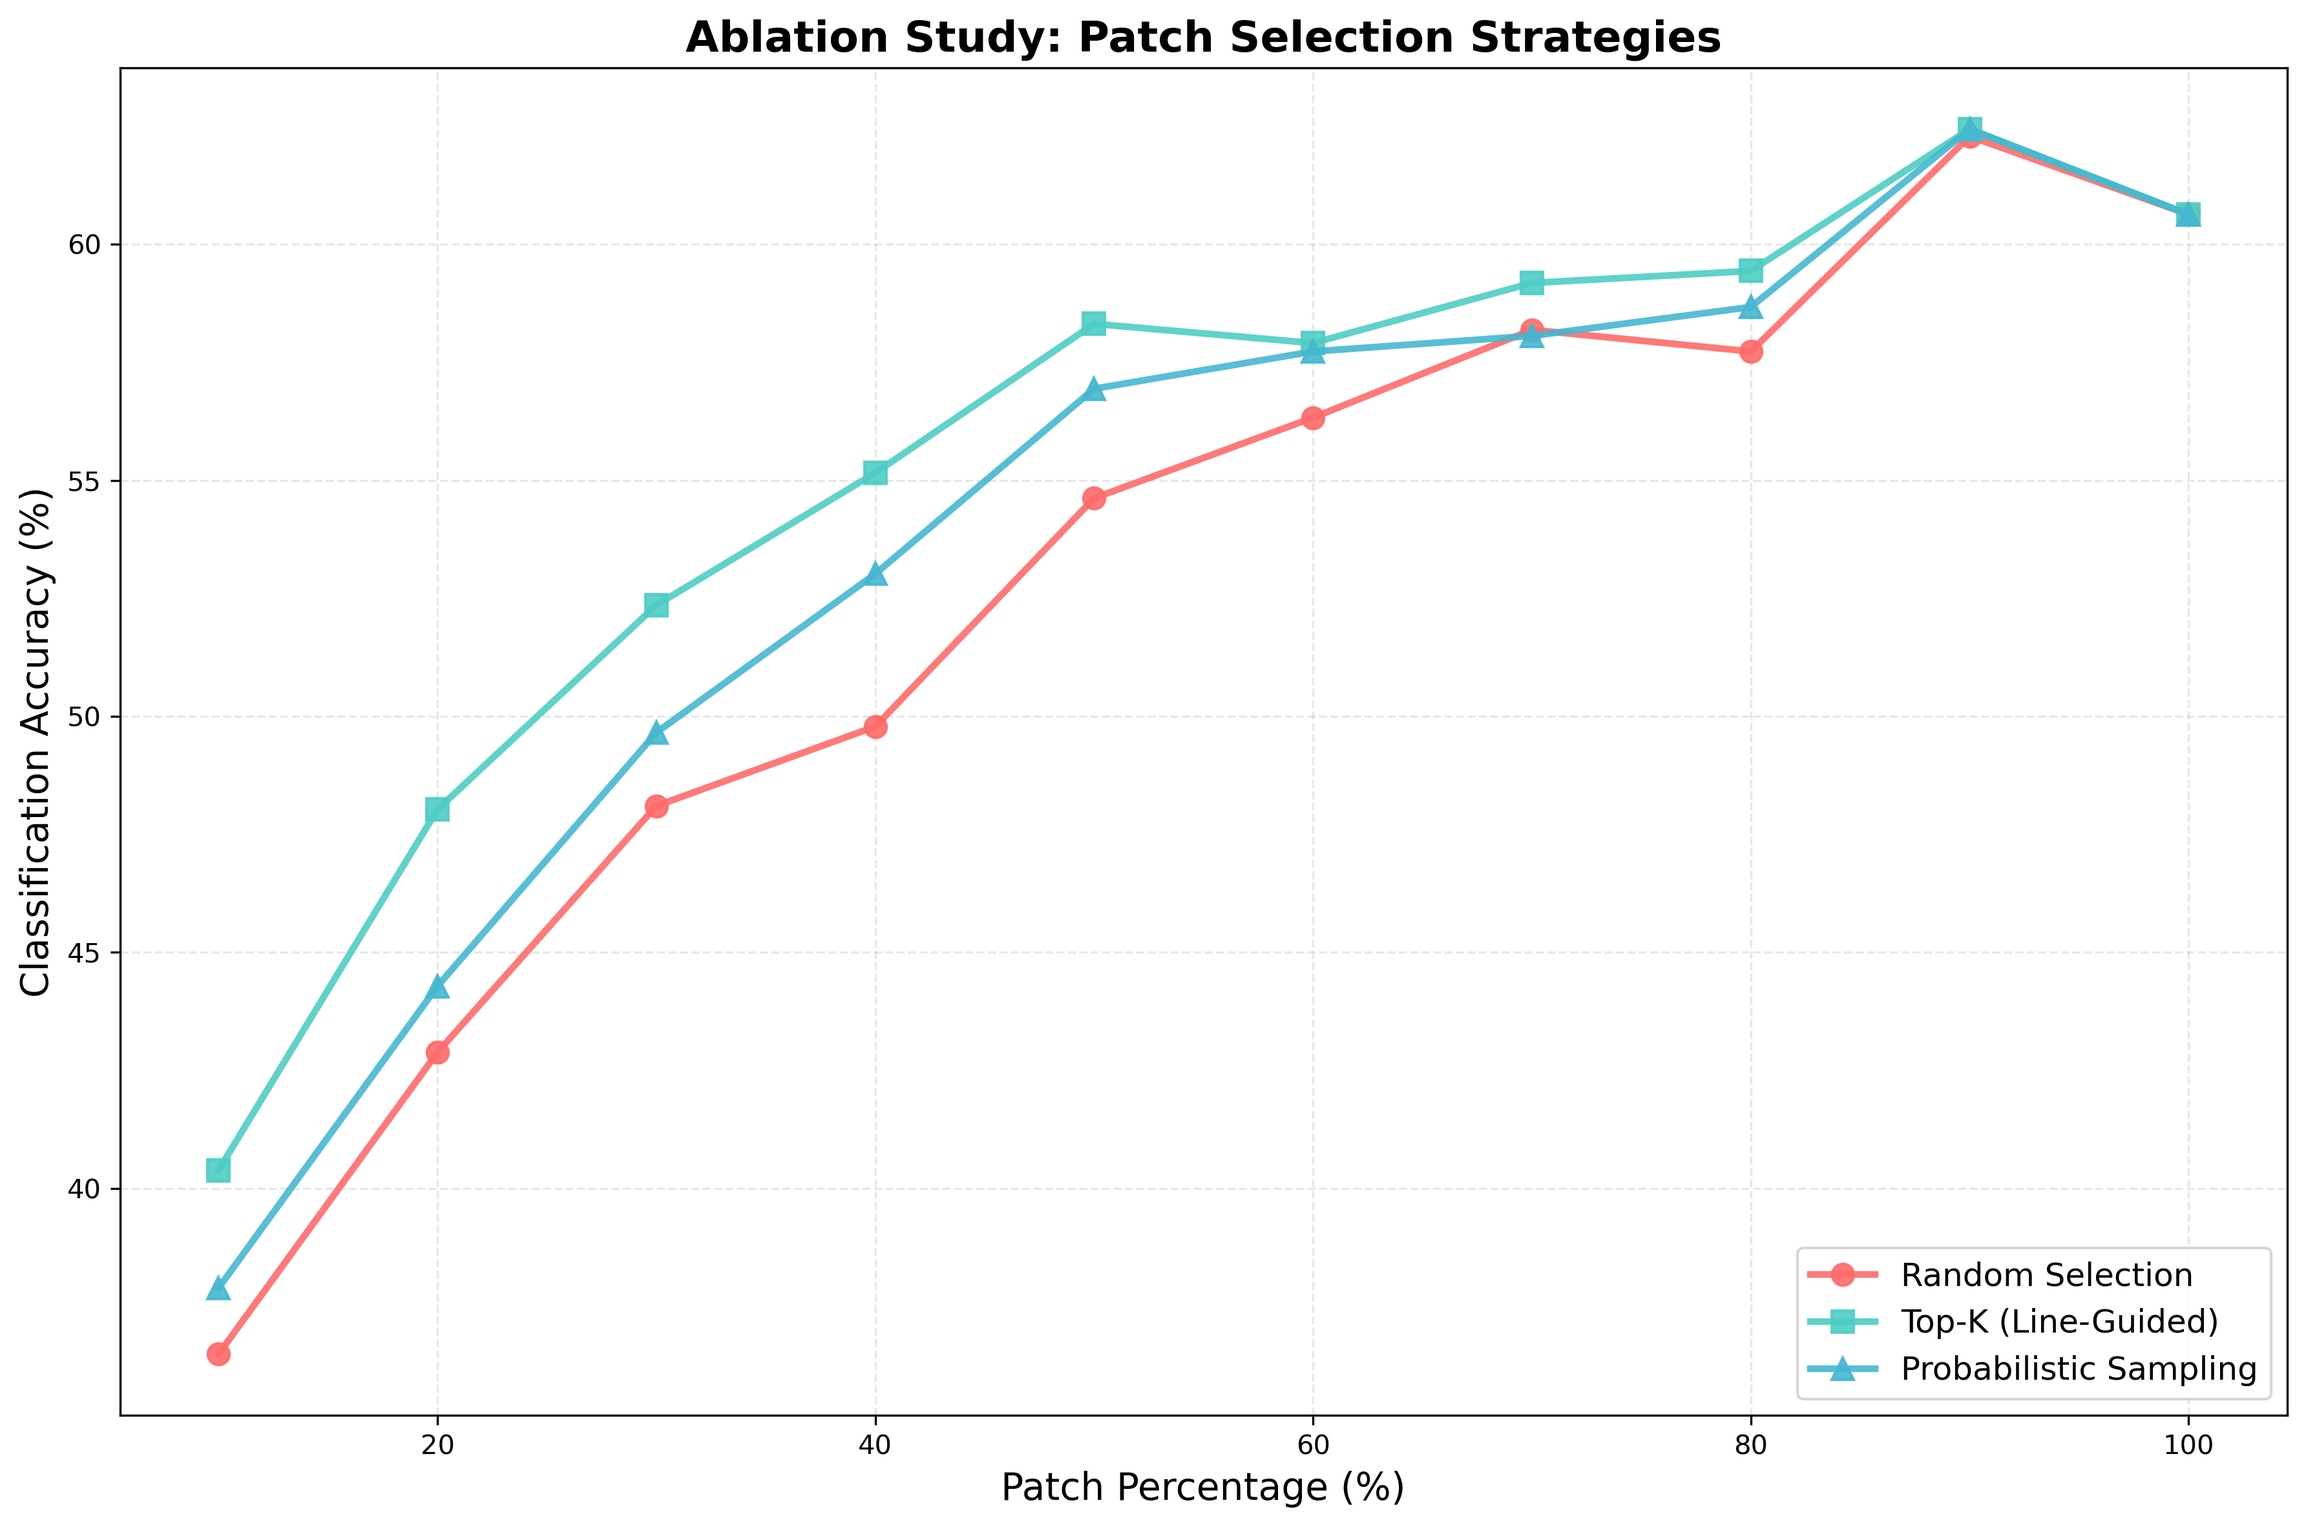
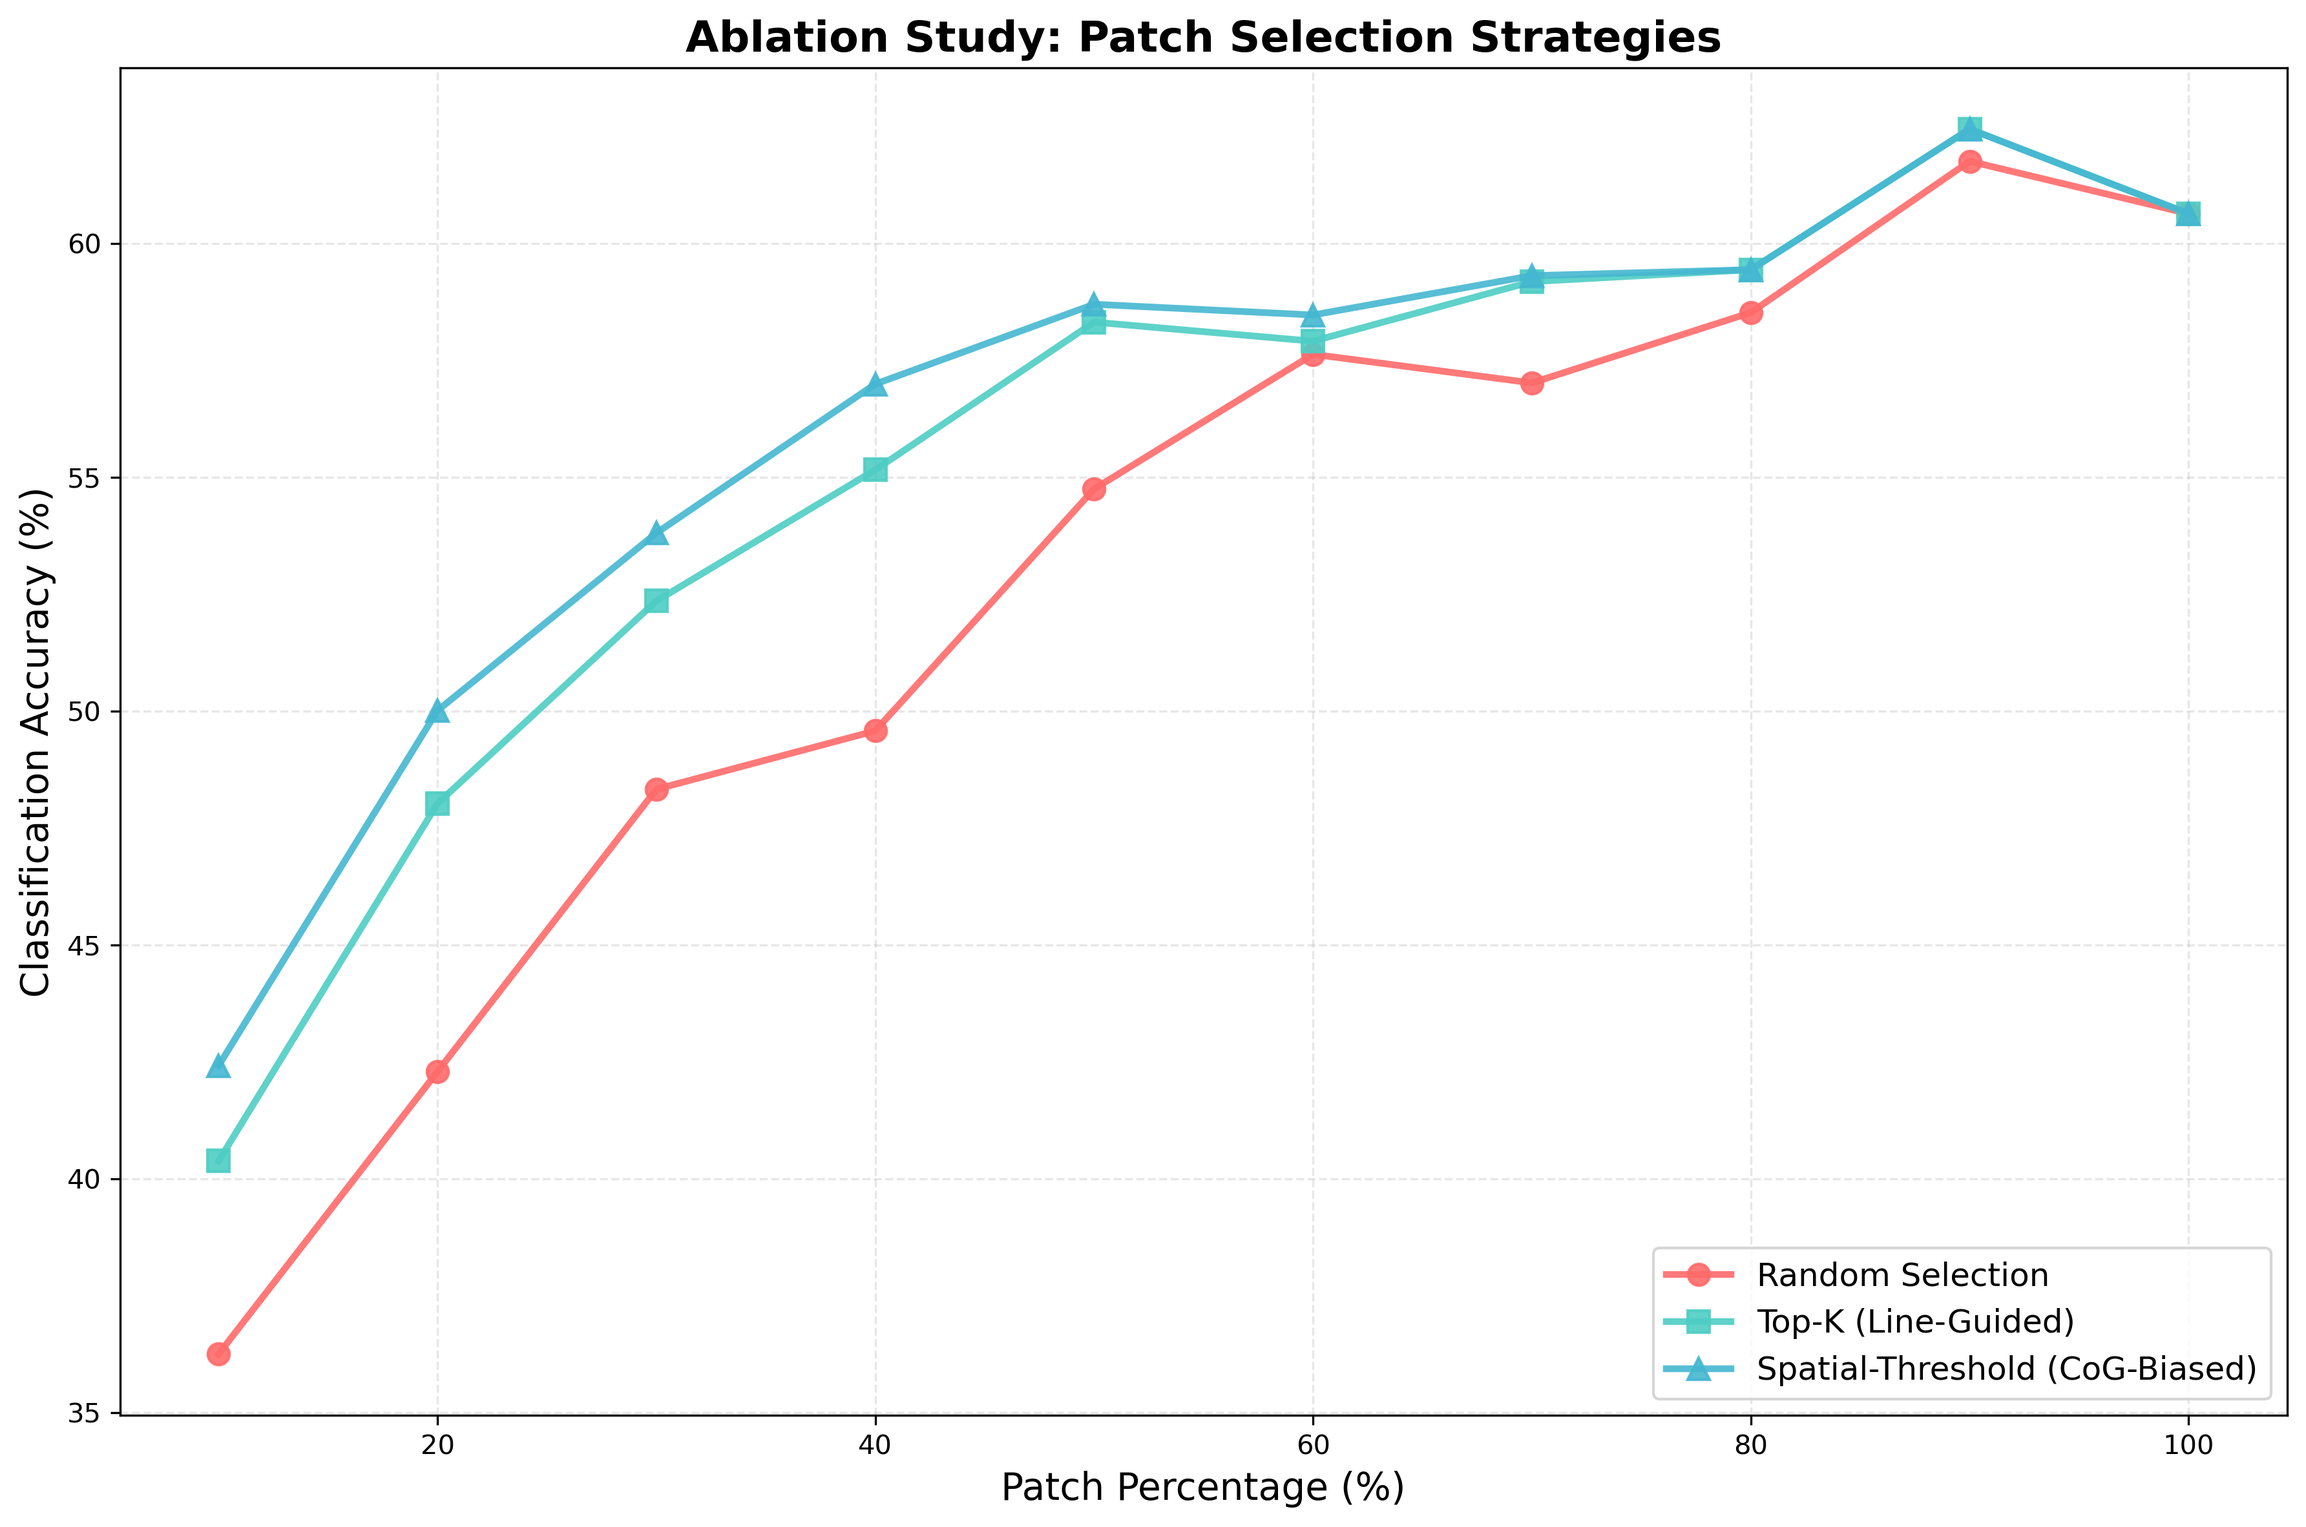
finished patch_percent ablation

diff --git a/src/model.py b/src/model.py
@@ -2,6 +2,7 @@ import torch
 import torch.nn as nn
 import torch.nn.functional as F
 import timm
+import numpy as np
 
 class PatchImportanceScorer(nn.Module):
     """
@@ -47,7 +48,7 @@ class FlexiblePatchSelector(nn.Module):
     Flexible patch selector supporting multiple selection strategies:
     - 'top_k': Select top-k patches based on scores
     - 'random': Randomly select patches
-    - 'probabilistic': Sample patches based on score distribution
+    - 'spatial_threshold': Spatially-biased threshold selection (replacing probabilistic)
     - 'threshold': Select patches above a threshold
     """
     def __init__(self, patch_percentage, selection_strategy='top_k'):
@@ -61,8 +62,75 @@ class FlexiblePatchSelector(nn.Module):
             raise ValueError("patch_percentage must be between 0 and 1.")
         self.patch_percentage = patch_percentage
         self.selection_strategy = selection_strategy
+        
+        # Parameters for spatial threshold strategy
+        self.threshold = 0.3  # Can be made configurable
+        self.gaussian_std = 0.25
+        self.use_center_of_gravity = True
+        self.normalize_scores = True
 
-    def forward(self, magno_patches, vit_positional_embedding, scores=None):
+    def compute_center_of_gravity(self, line_drawing):
+        """
+        Compute the center of gravity (center of mass) of the line drawing.
+        
+        Args:
+            line_drawing (torch.Tensor): Shape (B, 1, H, W)
+        
+        Returns:
+            torch.Tensor: Centers of gravity, shape (B, 2) with (y, x) coordinates normalized to [0, 1]
+        """
+        B, _, H, W = line_drawing.shape
+        
+        # Create coordinate grids
+        y_coords = torch.linspace(0, 1, H, device=line_drawing.device).view(1, 1, H, 1)
+        x_coords = torch.linspace(0, 1, W, device=line_drawing.device).view(1, 1, 1, W)
+        
+        # Compute center of gravity for each image in batch
+        total_mass = line_drawing.sum(dim=(2, 3), keepdim=True) + 1e-6  # Avoid division by zero
+        
+        cog_y = (line_drawing * y_coords).sum(dim=(2, 3)).squeeze(-1) / total_mass.squeeze()
+        cog_x = (line_drawing * x_coords).sum(dim=(2, 3)).squeeze(-1) / total_mass.squeeze()
+        
+        return torch.stack([cog_y, cog_x], dim=1)
+    
+    def create_gaussian_weights(self, num_patches_h, num_patches_w, centers, device):
+        """
+        Create 2D Gaussian weights for spatial biasing.
+        
+        Args:
+            num_patches_h (int): Number of patches in height
+            num_patches_w (int): Number of patches in width
+            centers (torch.Tensor): Centers for Gaussian, shape (B, 2)
+            device: Device to create tensor on
+        
+        Returns:
+            torch.Tensor: Gaussian weights, shape (B, num_patches_h * num_patches_w)
+        """
+        B = centers.shape[0]
+        
+        # Create patch coordinate grid (normalized to [0, 1])
+        y_patch = torch.linspace(0, 1, num_patches_h, device=device)
+        x_patch = torch.linspace(0, 1, num_patches_w, device=device)
+        grid_y, grid_x = torch.meshgrid(y_patch, x_patch, indexing='ij')
+        
+        # Flatten grid coordinates
+        grid_coords = torch.stack([grid_y.flatten(), grid_x.flatten()], dim=1)  # (N_patches, 2)
+        
+        # Compute Gaussian weights for each batch item
+        weights = []
+        for b in range(B):
+            center = centers[b].unsqueeze(0)  # (1, 2)
+            
+            # Compute distances from center
+            distances_sq = ((grid_coords - center) ** 2).sum(dim=1)  # (N_patches,)
+            
+            # Apply Gaussian
+            gaussian_weights = torch.exp(-distances_sq / (2 * self.gaussian_std ** 2))
+            weights.append(gaussian_weights)
+        
+        return torch.stack(weights)  # (B, N_patches)
+
+    def forward(self, magno_patches, vit_positional_embedding, scores=None, line_drawing=None):
         """
         Args:
             magno_patches (torch.Tensor): All patches from the Magno image,
@@ -71,6 +139,8 @@ class FlexiblePatchSelector(nn.Module):
                                                      embeddings, shape (1, num_patches + 1, embed_dim).
             scores (torch.Tensor, optional): The density scores from the PatchImportanceScorer,
                                             shape (B, num_patches). Not used for random selection.
+            line_drawing (torch.Tensor, optional): Original line drawing for spatial_threshold,
+                                                   shape (B, 1, H, W).
         
         Returns:
             torch.Tensor: A sparse sequence of selected patch embeddings with their
@@ -90,11 +160,11 @@ class FlexiblePatchSelector(nn.Module):
                 raise ValueError("Scores required for top_k selection")
             _, indices = torch.topk(scores, k=k, dim=1)
             
-        elif self.selection_strategy == 'probabilistic':
-            # Probabilistic sampling based on score distribution
-            if scores is None:
-                raise ValueError("Scores required for probabilistic selection")
-            indices = self._probabilistic_selection(scores, k)
+        elif self.selection_strategy == 'spatial_threshold':
+            # NEW: Spatially-biased threshold selection (replacing probabilistic)
+            if scores is None or line_drawing is None:
+                raise ValueError("Scores and line_drawing required for spatial_threshold selection")
+            indices = self._spatial_threshold_selection(scores, line_drawing, k)
             
         elif self.selection_strategy == 'threshold':
             # Threshold-based selection with top-k fallback
@@ -124,22 +194,71 @@ class FlexiblePatchSelector(nn.Module):
             indices[i] = torch.randperm(num_patches)[:k]
         return indices
 
-    def _probabilistic_selection(self, scores, k):
-        """Sample patches based on score distribution."""
-        B = scores.shape[0]
+    def _spatial_threshold_selection(self, scores, line_drawing, k):
+        """
+        Select patches using spatially-biased threshold method.
         
-        # Convert scores to probabilities using softmax
-        # Add temperature parameter for controlling distribution sharpness
-        temperature = 0.5  # Lower = sharper distribution, higher = more uniform
-        probs = F.softmax(scores / temperature, dim=1)
+        Args:
+            scores (torch.Tensor): Importance scores, shape (B, num_patches)
+            line_drawing (torch.Tensor): Line drawings, shape (B, 1, H, W)
+            k (int): Target number of patches to select
         
-        # Sample k patches without replacement
-        indices = torch.zeros(B, k, dtype=torch.long, device=scores.device)
-        for i in range(B):
-            # Multinomial sampling without replacement
-            indices[i] = torch.multinomial(probs[i], k, replacement=False)
+        Returns:
+            torch.Tensor: Selected indices, shape (B, k)
+        """
+        B, N = scores.shape
+        device = scores.device
         
-        return indices
+        # Calculate patch grid dimensions
+        num_patches_per_side = int(np.sqrt(N))
+        
+        # Step 1: Compute center of gravity
+        if self.use_center_of_gravity:
+            centers = self.compute_center_of_gravity(line_drawing)
+        else:
+            # Use image center
+            centers = torch.tensor([[0.5, 0.5]], device=device).repeat(B, 1)
+        
+        # Step 2: Create Gaussian spatial weights
+        gaussian_weights = self.create_gaussian_weights(
+            num_patches_per_side, num_patches_per_side, centers, device
+        )
+        
+        # Step 3: Combine scores with spatial weights
+        weighted_scores = scores * gaussian_weights
+        
+        # Step 4: Normalize scores if requested
+        if self.normalize_scores:
+            weighted_scores = weighted_scores / (weighted_scores.sum(dim=1, keepdim=True) + 1e-6)
+        
+        # Step 5: Apply threshold selection with fallback to top-k
+        indices_list = []
+        for b in range(B):
+            # Get patches above threshold
+            above_threshold = weighted_scores[b] > self.threshold
+            above_indices = torch.where(above_threshold)[0]
+            
+            if len(above_indices) >= k:
+                # Too many patches above threshold, take top-k
+                _, top_indices = torch.topk(weighted_scores[b], k=k)
+                indices_list.append(top_indices)
+            elif len(above_indices) > 0:
+                # Some but not enough patches above threshold
+                # Take all above threshold + top remaining
+                remaining_k = k - len(above_indices)
+                mask = torch.ones(N, dtype=torch.bool, device=device)
+                mask[above_indices] = False
+                remaining_scores = weighted_scores[b].clone()
+                remaining_scores[~mask] = -float('inf')
+                _, remaining_indices = torch.topk(remaining_scores, k=remaining_k)
+                combined = torch.cat([above_indices, remaining_indices])
+                indices_list.append(combined[:k])
+            else:
+                # No patches above threshold, fall back to top-k
+                _, top_indices = torch.topk(weighted_scores[b], k=k)
+                indices_list.append(top_indices)
+        
+        return torch.stack(indices_list)
 
     def _threshold_selection(self, scores, k):
         """Select patches above adaptive threshold, with top-k fallback."""
@@ -278,10 +397,12 @@ class SelectiveMagnoViT(nn.Module):
         all_patches = self.vit.patch_embed(magno_image)
         
         # Select patches based on strategy
+        # Pass line_drawing for spatial_threshold strategy
         selected_patches = self.selector(
             all_patches,
             self.vit.pos_embed,
-            patch_scores
+            patch_scores,
+            line_drawing if self.selection_strategy == 'spatial_threshold' else None
         )
         
         # Prepare [CLS] token
@@ -327,7 +448,7 @@ class SelectiveMagnoViT(nn.Module):
         self.selection_strategy = strategy
         self.selector.selection_strategy = strategy
         return self
-    
+        
     @torch.no_grad()
     def get_selected_patches_indices(self, line_drawing, patch_percentage=None):
         """Get indices of selected patches for visualization."""
@@ -343,12 +464,12 @@ class SelectiveMagnoViT(nn.Module):
             
             if self.selection_strategy == 'top_k':
                 _, indices = torch.topk(patch_scores, k=k, dim=1)
-            elif self.selection_strategy == 'probabilistic':
-                indices = self.selector._probabilistic_selection(patch_scores, k)
+            elif self.selection_strategy == 'spatial_threshold':
+                indices = self.selector._spatial_threshold_selection(patch_scores, line_drawing, k)
             elif self.selection_strategy == 'threshold':
                 indices = self.selector._threshold_selection(patch_scores, k)
             
-            return indices     
+            return indices 
         
     def get_model_info(self):
         """

diff --git a/src/evaluate.py b/src/evaluate.py
@@ -340,7 +340,7 @@ class AblationStudyEvaluator:
         self.strategies = {
             'random': 'Random Selection',
             'top_k': 'Top-K (Line-Guided)',
-            'probabilistic': 'Probabilistic Sampling'
+            'spatial_threshold': 'Spatial-Threshold (CoG-Biased)' 
         }
         
         self.results = {}
@@ -501,13 +501,13 @@ class AblationStudyEvaluator:
         colors = {
             'random': '#FF6B6B',
             'top_k': '#4ECDC4',
-            'probabilistic': '#45B7D1'
+            'spatial_threshold': '#45B7D1'
         }
         
         markers = {
             'random': 'o',
             'top_k': 's',
-            'probabilistic': '^'
+            'spatial_threshold': '^'
         }
         
         # Plot each strategy
@@ -543,7 +543,7 @@ class AblationStudyEvaluator:
         """Save ablation study results."""
         results_dict = {
             'timestamp': datetime.now().isoformat(),
-            'model_path': self.model_path,
+            'model_dir': self.model_dir,
             'strategies_tested': list(self.strategies.keys()),
             'results': self.results
         }
@@ -604,7 +604,13 @@ class AblationStudyEvaluator:
         for i in range(len(x)):
             p = np.array([x[i], y[i]])
             # Distance from point to line
-            distance = np.abs(np.cross(p2-p1, p1-p)) / np.linalg.norm(p2-p1)
+            # Convert 2D points to 3D by adding a z=0 component
+            p1_3d = np.append(p1, 0)
+            p2_3d = np.append(p2, 0)
+            p_3d = np.append(p, 0)
+
+            # Perform the cross product in 3D
+            distance = np.linalg.norm(np.cross(p2_3d - p1_3d, p1_3d - p_3d)) / np.linalg.norm(p2_3d - p1_3d)
             distances.append(distance)
         
         # Knee point is the one with maximum distance

diff --git a/TODO.md b/TODO.md
@@ -1,0 +1,11 @@
+# Dual Stream VLM - Visual Encoder
+
+### Immediate Fixes/Experiments
+- Low-Resolution Filter
+  - Add Low-Pass Filter + subsampling
+    - Guassian Blur
+  - Use stronger ViT backbone with complex embedding changes
+- Visualize Sampled Patches for Analysis
+  - Create benchmarks/tests to prove sampling method
+- More accurate Flop Counts
+  - Run benchmarks locally
